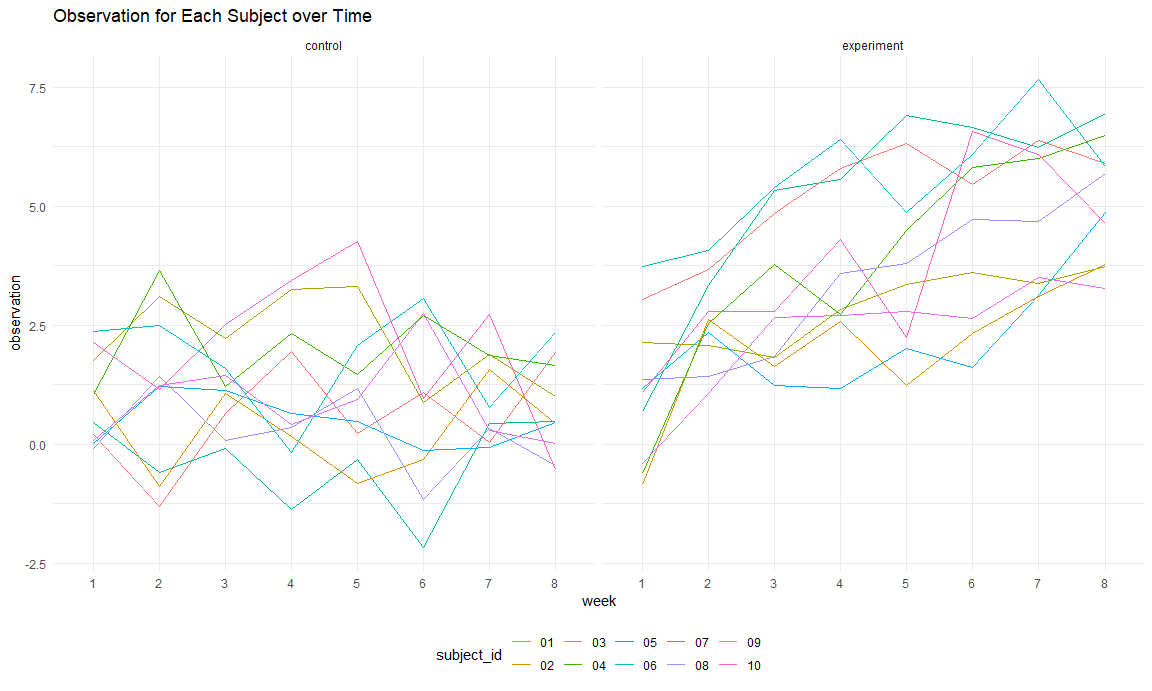
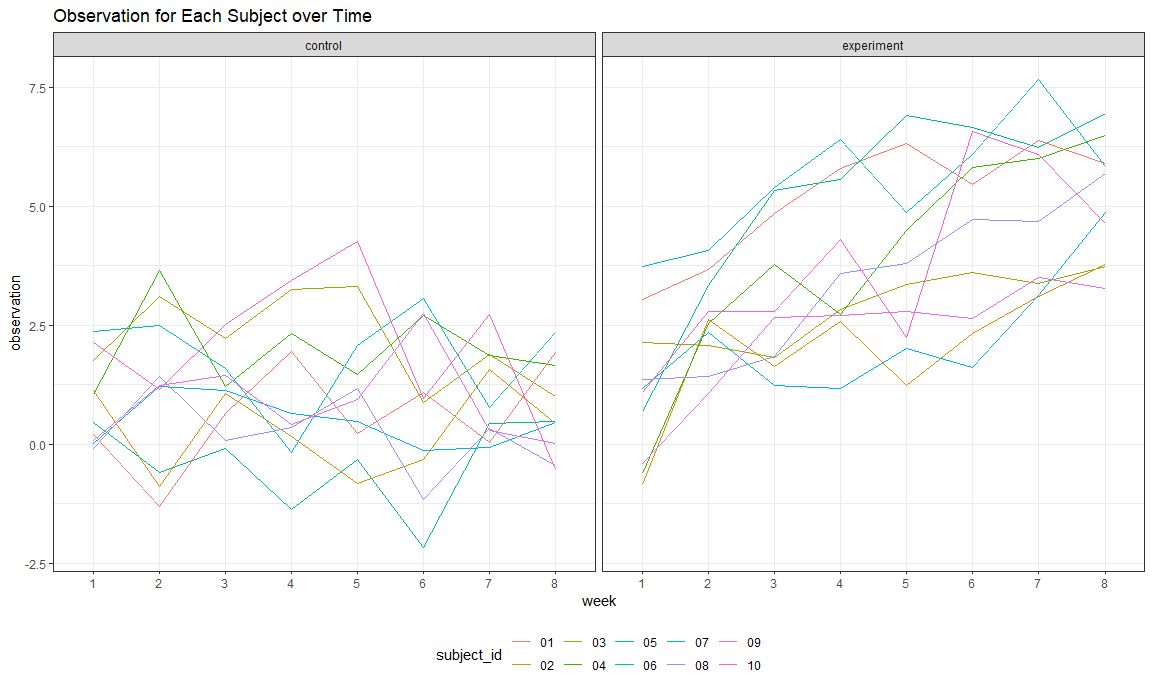
Make the plots for Problem 3.

Changed region(s): [[0.0312, 0.0304, 1.0, 0.0912]]

diff --git a/p8105_hw5_zz3167.md b/p8105_hw5_zz3167.md
@@ -15,7 +15,7 @@ knitr::opts_chunk$set(
   warning = FALSE
 )
 
-theme_set(theme_minimal() + theme(legend.position = "bottom"))
+theme_set(theme_bw() + theme(legend.position = "bottom"))
 ```
 
 ## Problem 1
@@ -287,14 +287,101 @@ mu_0_result
     ## # A tibble: 5,000 × 4
     ##       mu  iter estimate p.value
     ##    <dbl> <int>    <dbl>   <dbl>
-    ##  1     0     1   -0.465   0.639
-    ##  2     0     2    1.19    0.272
-    ##  3     0     3    0.225   0.814
-    ##  4     0     4    0.700   0.515
-    ##  5     0     5    0.993   0.310
-    ##  6     0     6    1.27    0.274
-    ##  7     0     7   -0.560   0.499
-    ##  8     0     8    0.383   0.628
-    ##  9     0     9    0.215   0.801
-    ## 10     0    10   -0.780   0.438
+    ##  1     0     1    0.875   0.405
+    ##  2     0     2    0.668   0.496
+    ##  3     0     3   -0.316   0.694
+    ##  4     0     4    1.39    0.197
+    ##  5     0     5   -0.331   0.713
+    ##  6     0     6   -1.71    0.144
+    ##  7     0     7    1.15    0.270
+    ##  8     0     8    0.205   0.788
+    ##  9     0     9   -0.293   0.806
+    ## 10     0    10   -0.484   0.611
     ## # ℹ 4,990 more rows
+
+### For mu = 1,2,3,4,5,6
+
+Repeat the above for μ={1,2,3,4,5,6}, and complete the following:
+
+- Make a plot showing the proportion of times the null was rejected (the
+  power of the test) on the y axis and the true value of μ on the x
+  axis. Describe the association between effect size and power.
+- Make a plot showing the average estimate of μ^ on the y axis and the
+  true value of μ on the x axis. Make a second plot (or overlay on the
+  first) the average estimate of μ^ only in samples for which the null
+  was rejected on the y axis and the true value of μ on the x axis. Is
+  the sample average of μ^ across tests for which the null is rejected
+  approximately equal to the true value of μ? Why or why not?
+
+``` r
+total_sim_result = 
+  expand.grid(mu = 1:6,iter = 1:5000) |>
+  mutate(result = map(mu, sim_test)) |>
+  unnest(result) |>
+  bind_rows(mu_0_result)
+```
+
+### Make a plot showing the proportion of times the null was rejected
+
+``` r
+total_sim_result |>
+  group_by(mu) |>
+  summarise(
+    total = n(),
+    reject_num = sum(p.value < 0.05)
+  ) |>
+  mutate(rejected_proportion = reject_num / total) |>
+  ggplot(aes(x = mu, y = rejected_proportion)) +
+  scale_x_continuous(limits = c(0,6), breaks = seq(0,6,1)) + 
+  geom_point() +
+  geom_line() +
+  theme_bw() +
+  labs(x = "True Mean", y = "Power", title = "Power of the test with Different True Means")
+```
+
+<img src="p8105_hw5_zz3167_files/figure-gfm/unnamed-chunk-10-1.png" width="90%" />
+
+### Make a plot showing the average estimate of different true mean
+
+``` r
+total_sim_result |>
+  group_by(mu) |>
+  summarise(mean_estimate = mean(estimate)) |>
+  ggplot(aes(x = mu, y = mean_estimate)) +
+  geom_point() +
+  geom_line() +
+  scale_x_continuous(limits = c(0,6), breaks = seq(0,6,1)) +
+  labs(x = "True mean",
+       y = "Average of Estimated Mean",
+       title = "Estimated Mean vs True Mean")
+```
+
+<img src="p8105_hw5_zz3167_files/figure-gfm/unnamed-chunk-11-1.png" width="90%" />
+
+### Make a second plot the average estimate of μ^ only in samples for which the null was rejected on the y axis and the true value of μ on the x axis
+
+``` r
+rejected_df = 
+  total_sim_result |>
+  filter(p.value < 0.05) |>
+  group_by(mu) |>
+  summarize(mean_estimate = mean(estimate))
+
+total_df = 
+  total_sim_result |>
+  group_by(mu) |>
+  summarize(mean_estimate = mean(estimate))
+
+ggplot()+
+  geom_point(data = total_df, aes(x = mu, y = mean_estimate, color = "All Estimate"))+
+  geom_line(data = total_df, aes(x = mu, y = mean_estimate, color = "All Estimate"))+
+  geom_point(data = rejected_df, aes(x = mu, y = mean_estimate, color = "Rejected Estimate")) +
+  geom_line(data = rejected_df, aes(x = mu, y = mean_estimate, color = "Rejected Estimate"))+
+  scale_x_continuous(limits = c(0,6), breaks = seq(0,6,1)) +
+  scale_color_manual(values = c("Rejected Estimate" = "blue", "All Estimate" = "red")) +
+  labs(x = "True mean",
+       y = "Average of Estimated Mean",
+       title = "All versus Rejected Estimates")
+```
+
+<img src="p8105_hw5_zz3167_files/figure-gfm/unnamed-chunk-12-1.png" width="90%" />
